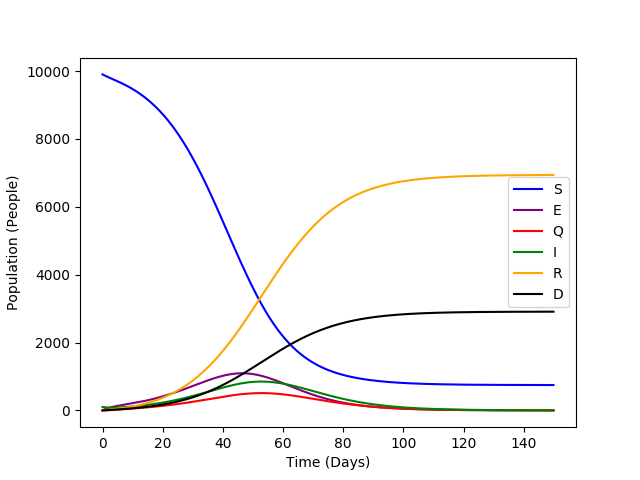
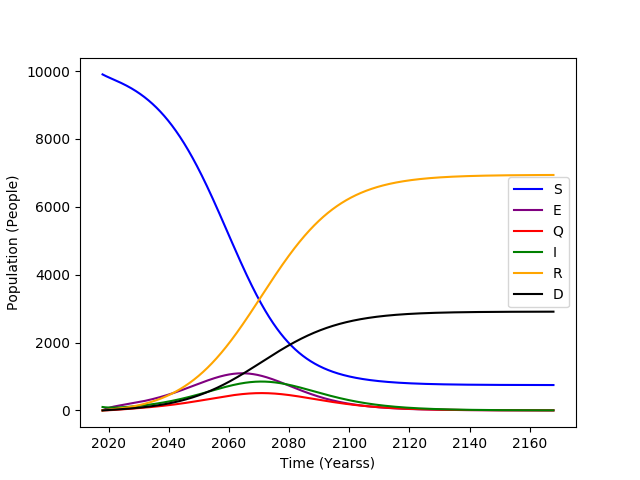
years

Changed region(s): [[0.3125, 0.9062, 0.875, 1.0], [0.2188, 0.9062, 0.2812, 0.9375], [0.125, 0.9062, 0.1875, 0.9375]]

diff --git a/hrenard_program3.py b/hrenard_program3.py
@@ -18,7 +18,7 @@ def runsim(
 	death_factor = 1 / mean_death	                        # 1 / year
 
 	delta_t = .1                                    	# year
-	time_values = np.arange(0, 150, delta_t)
+	time_values = np.arange(2018, 2168, delta_t)
 
 	S = np.empty(len(time_values))
 	E = np.empty(len(time_values))
@@ -75,7 +75,7 @@ def runsim(
 		plt.plot(time_values, I, color="green", label="I")
 		plt.plot(time_values, R, color="orange", label="R")
 		plt.plot(time_values, D, color="black", label="D")
-		plt.xlabel("Time (Days)")
+		plt.xlabel("Time (Yearss)")
 		plt.ylabel("Population (People)")
 		plt.legend()
 		plt.show()
@@ -96,7 +96,7 @@ def main():
 
 	plt.clf()
 	plt.plot(mids, perc_infs, color="black", label="% Infected")
-	plt.xlabel("Mean Infected Duration (Days)")
+	plt.xlabel("Mean Infected Duration (Years)")
 	plt.ylabel("% Ever Infected")
 	plt.legend()
 	plt.show()
